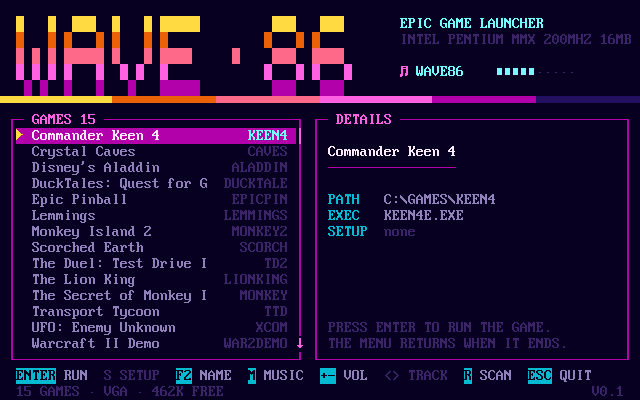
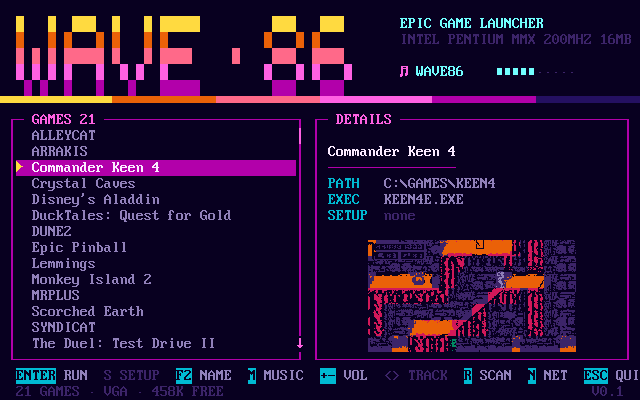
Games list: the whole row is the name, no folder column

diff --git a/src/ui.c b/src/ui.c
@@ -252,19 +252,15 @@ void ui_list(int sel, int top)
             const Game *g = &games[gi];
             int is_sel = (gi == sel);
             unsigned char at = is_sel ? A(15, 5) : A(7, 0);
-            unsigned char ad = is_sel ? A(11, 5) : A(8, 0);
-            char nm[24];
-            int dl;
+            char nm[LIST_W];
 
             if (is_sel) {
                 scr_fill(LIST_X + 1, y, LIST_W - 2, 1, ' ', at);
                 scr_put(LIST_X + 1, y, CH_ARROW, A(14, 5));
             }
-            strncpy(nm, g->name, 22);
-            nm[22] = 0;
+            strncpy(nm, g->name, LIST_W - 4);   /* the whole row is the name */
+            nm[LIST_W - 4] = 0;
             scr_puts(LIST_X + 3, y, nm, at);
-            dl = strlen(g->dir);
-            scr_puts(LIST_X + LIST_W - 2 - dl, y, g->dir, ad);
         }
     }
 
